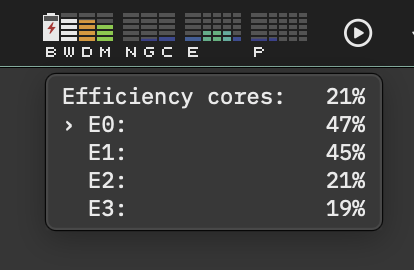
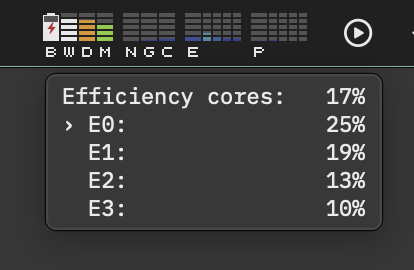
Read each core's line of the efficiency and performance cores' hover labels over the same second as their title, and retake their README pictures

diff --git a/cpuTopBarsTests/SystemInfoTests.swift b/cpuTopBarsTests/SystemInfoTests.swift
@@ -73,6 +73,47 @@ extension FreeTests {
       #expect(span >= 1.0)
     }
 
+    @Test func eachCpuOverTheSameWindow() {
+      // SystemInfoCpuBusyEach gives what SystemInfoCpuBusy gives, over the same window, and each logical CPU's busy
+      // share in it, one per CPU host_processor_info counts (hw.ncpu), each 0..1 or -1, nothing written past them
+      SystemInfoCpuReset()
+      SystemInfoCpuTick()
+      let until = Date().addingTimeInterval(1.1)
+      var spin = 0.0
+      while Date() < until { spin += 1 }
+      SystemInfoCpuTick()
+      let cpus = ProcessInfo.processInfo.processorCount
+      var each = [Double](repeating: -2, count: cpus + 1)
+      var count: natural_t = 99
+      var span = 0.0, spanEach = 0.0
+      let busy = SystemInfoCpuBusy(&span, nil, nil)
+      let busyEach = SystemInfoCpuBusyEach(&spanEach, nil, nil, &each, natural_t(each.count), &count)
+      #expect(busyEach == busy && spanEach == span, "busy \(busy) after \(spin) loops")
+      #expect(Int(count) == cpus)
+      #expect(each.prefix(cpus).allSatisfy { ($0 >= 0 && $0 <= 1) || $0 == -1 }, "\(each)")
+      #expect(each[cpus] == -2)
+      // every CPU's counters advance about 100 ticks a second (SystemInfo.c, CpuEachTicks), so over 1.1 s each CPU has
+      // ticks and a share, and the overall share, all CPUs' ticks summed, is close to the mean of theirs (within 0.0020
+      // in 56 windows, measured on an M3): the E and P labels' titles over their lines
+      let read = each.prefix(cpus).filter { $0 >= 0 }
+      #expect(read.count == cpus, "\(each)")
+      let mean = read.reduce(0, +) / Double(max(read.count, 1))
+      #expect(abs(mean - busy) < 0.01, "mean \(mean), busy \(busy), each \(each)")
+      // too small a capacity, or no buffer, writes none and counts 0; the busy share is still given
+      var small = [Double](repeating: -2, count: max(cpus - 1, 1))
+      #expect(SystemInfoCpuBusyEach(nil, nil, nil, &small, natural_t(cpus - 1), &count) == busy)
+      #expect(count == 0)
+      #expect(small.allSatisfy { $0 == -2 })
+      count = 99
+      #expect(SystemInfoCpuBusyEach(nil, nil, nil, nil, 0, &count) == busy)
+      #expect(count == 0)
+      // after a reset, no reading and none written
+      SystemInfoCpuReset()
+      count = 99
+      #expect(SystemInfoCpuBusyEach(nil, nil, nil, &each, natural_t(each.count), &count) == -1)
+      #expect(count == 0)
+    }
+
     // the power source keys' literal values, from IOPSKeys.h
     private func powerSource(_ extra: [String: Any]) -> CFDictionary {
       var d: [String: Any] = ["Type": "InternalBattery", "Is Present": true, "Current Capacity": 87, "Max Capacity": 100]

diff --git a/cpuTopBars/AppDelegate.mm b/cpuTopBars/AppDelegate.mm
@@ -1983,6 +1983,7 @@ static NSTimeInterval lastReadings = 0.0;   // when overall CPU and memory were 
 static double readingsCpu = -1.0;           // overall CPU over the 1 s before it (after a reset, one tick), 0..1, -1 before the first
 static double readingsCpuEfficiency = -1.0; // the E-cores' and the P-cores' over the same window, read with it; -1: not read
 static double readingsCpuPerformance = -1.0;
+static std::vector<double> readingsCpuEach; // each logical CPU's over the same window, read with it, in CpuSampler's order (-1: no ticks); empty: not read
 static double readingsGpu = -1.0;           // the GPU's busy share, 0..1, read with them while the GPU's bar is shown; -1: not read
 static int readingsNeuralEngine = -1;       // the Neural Engine's power: 1 on, 0 off, -1 not read
 static double readingsNeuralEngineBusy = -1.0; // its share of time busy, 0..1, from IOReport, read with them; -1: not read
@@ -3295,7 +3296,7 @@ static NSString* CoreKindReadingValue(double busy, NSLocale* locale)
   return (busy < 0.0) ? @"—" : [[NSString alloc] initWithFormat:@"%ld%%" locale:locale, lround(busy * 100.0)];
 }
 
-// the core graph's label at the graph's latest tick, as its bars show it, laid out as Wi-Fi's: a section per kind of
+// the core graph's label from loads, each logical CPU's (0..1; below 0, not read: "—"), laid out as Wi-Fi's: a section per kind of
 // core, E first, each its title, "Efficiency cores:" or "Performance cores:", at the left edge, then a line per CPU of
 // that kind, by logical id, named by its kind and its number within the kind, with its load, "  E0:   18%"; a blank line
 // before each section after the first, which SetTipText draws as a menu-style line; when the kinds were not read, one
@@ -3359,23 +3360,33 @@ static NSString* CoresTipText(const std::vector<double>& loads, const char* kind
     {
       bool marked = (hovered >= 0) && (perBar > 0) && ((NSInteger)(cpus[k] / perBar) == hovered);
       NSString* name = [NSString stringWithFormat:@"%@%c%lu:", marked ? @"› " : @"  ", letters[section], (unsigned long)k];
-      NSString* load = [[NSString alloc] initWithFormat:@"%ld%%" locale:locale, lround(100.0 * loads[cpus[k]])];
+      NSString* load = (loads[cpus[k]] < 0.0) ? @"—" : [[NSString alloc] initWithFormat:@"%ld%%" locale:locale, lround(100.0 * loads[cpus[k]])];
       [lines addObject:[[name stringByPaddingToLength:width withString:@" " startingAtIndex:0] stringByAppendingString:load]];
     }
   }
   return [lines componentsJoinedByString:@"\n"];
 }
 
-// the core graph's label at its latest tick, the bar under the pointer marked (CoresTipText); index BAR_TIP_CORES_E or
-// BAR_TIP_CORES_P: that kind's section alone, its title line with that kind's reading (CoreKindReadingValue)
+// the core graph's label, the bar under the pointer marked (CoresTipText): BAR_TIP_CORES at the graph's latest tick, as
+// its bars show it; BAR_TIP_CORES_E or BAR_TIP_CORES_P that kind's section alone, its title line with that kind's
+// reading (CoreKindReadingValue) and each CPU over the same window, read with it (readingsCpuEach), so that the title
+// is close to the mean of its lines (equal to it where every CPU counts as many ticks), where at the latest tick a
+// title of 7% stood over four 0%; while those are not read, the latest tick
 - (NSString*)coresTipText:(NSInteger)index
 {
+  char only = (index == BAR_TIP_CORES_E) ? 'E' : ((index == BAR_TIP_CORES_P) ? 'P' : 0);
+  bool windowed = (only != 0) && (cpu_info.countLogical > 0) && (readingsCpuEach.size() == cpu_info.countLogical);
+  static bool windowLogged = false;
+  if ((only != 0) && !windowed && !windowLogged)
+  {
+    windowLogged = true;
+    NSLog(@"the %c-cores' label shows the latest tick: each CPU's share over the readings' window is not read (%lu of %u)", only, (unsigned long)readingsCpuEach.size(), cpu_info.countLogical);
+  }
   std::vector<double> loads;
   for (natural_t i=0; i<cpu_info.countLogical; i++)
   {
-    loads.push_back(fmin(fmax(cpu_info.now[i].load, 0.0), 1.0));
+    loads.push_back(windowed ? fmin(readingsCpuEach[i], 1.0) : fmin(fmax(cpu_info.now[i].load, 0.0), 1.0));
   }
-  char only = (index == BAR_TIP_CORES_E) ? 'E' : ((index == BAR_TIP_CORES_P) ? 'P' : 0);
   NSString* titleValue = nil;
   if (only != 0)
   {
@@ -4166,12 +4177,16 @@ static void WifiRead(SystemInfoWifi* wifi, bool full)
   {
     double efficiency = -1.0;
     double performance = -1.0;
-    double cpu = SystemInfoCpuBusy(NULL, &efficiency, &performance);
+    std::vector<double> each(cpu_info.countLogical);
+    natural_t eachCount = 0;
+    double cpu = SystemInfoCpuBusyEach(NULL, &efficiency, &performance, each.data(), (natural_t)each.size(), &eachCount);
     if (cpu >= 0.0)
     {
       readingsCpu = cpu;
       readingsCpuEfficiency = efficiency;
       readingsCpuPerformance = performance;
+      each.resize(eachCount);
+      readingsCpuEach = each;
       static bool kindsLogged = false;
       if ((cpuKinds != NULL) && ((efficiency < 0.0) || (performance < 0.0)) && !kindsLogged)
       {

diff --git a/cpuTopBars/SystemInfo.c b/cpuTopBars/SystemInfo.c
@@ -56,12 +56,15 @@ static mach_port_t HostPort(void)
 
 #define CPU_RING_SIZE   (64)    // 6.3 s at the fastest refresh (0.1 s), enough for a 1 s window at every setting
 #define CPU_WINDOW      (1.0)   // s
+#define CPU_EACH_MAX    (64)    // logical CPUs whose own ticks a sample keeps; a Mac with more keeps none (eachCount 0)
 
 struct CpuSample
 {
   uint32_t ticks[CPU_STATE_MAX];        // the host's
   uint32_t cpuTicks[CPU_STATE_MAX];     // every CPU's, summed
   uint32_t kindTicks[2][CPU_STATE_MAX]; // [0] the E-cores', [1] the P-cores', each summed over its CPUs
+  uint32_t eachTicks[CPU_EACH_MAX][CPU_STATE_MAX]; // each CPU's own, in host_processor_info's order
+  natural_t eachCount;          // CPUs in eachTicks; 0: none kept
   bool     perCpu;              // cpuTicks were read
   bool     kinds;               // kindTicks were read
   double   time;                // s, CLOCK_MONOTONIC_RAW
@@ -95,11 +98,13 @@ void SystemInfoCpuSetKinds(natural_t count, const char* kinds)
 // summed over its CPUs, into its kindTicks (kinds: false also when there are no kinds or the CPUs' count is not the
 // kinds'). The sums wrap in 32 bits as the kernel's counters do, so a difference of two of them is still right across
 // a wrap. Each CPU's counters advance about 100 ticks a second, steadily, where the host's stall and catch up (over
-// three 1 s windows on an M3, 798-803 summed over its 8 CPUs against the host's 794, 1,121 and 655)
+// three 1 s windows on an M3, 798-803 summed over its 8 CPUs against the host's 794, 1,121 and 655). Each CPU's own
+// ticks too, into eachTicks, up to CPU_EACH_MAX CPUs (eachCount: 0 when they cannot be read or there are more)
 static void CpuEachTicks(CpuSample* sample)
 {
   sample->perCpu = false;
   sample->kinds = false;
+  sample->eachCount = 0;
   natural_t count = 0;
   processor_cpu_load_info_t load = NULL;
   mach_msg_type_number_t size = 0;
@@ -108,6 +113,7 @@ static void CpuEachTicks(CpuSample* sample)
     return;
   }
   bool kinds = (cpuKinds != NULL) && (count == cpuKindsCount);
+  bool each = (count <= CPU_EACH_MAX);
   memset(sample->cpuTicks, 0, sizeof(sample->cpuTicks));
   memset(sample->kindTicks, 0, sizeof(sample->kindTicks));
   for (natural_t c=0; c<count; c++)
@@ -117,8 +123,13 @@ static void CpuEachTicks(CpuSample* sample)
     {
       sample->cpuTicks[i] += load[c].cpu_ticks[i];
       sample->kindTicks[kind][i] += load[c].cpu_ticks[i];
+      if (each)
+      {
+        sample->eachTicks[c][i] = load[c].cpu_ticks[i];
+      }
     }
   }
+  sample->eachCount = each ? count : 0;
   sample->perCpu = true;
   sample->kinds = kinds;
   // size counts integers; vm_deallocate takes bytes
@@ -169,6 +180,15 @@ void SystemInfoCpuTick(void)
 
 double SystemInfoCpuBusy(double* span, double* efficiency, double* performance)
 {
+  return SystemInfoCpuBusyEach(span, efficiency, performance, NULL, 0, NULL);
+}
+
+double SystemInfoCpuBusyEach(double* span, double* efficiency, double* performance, double* each, natural_t capacity, natural_t* eachCount)
+{
+  if (eachCount != NULL)
+  {
+    *eachCount = 0;
+  }
   if (span != NULL)
   {
     *span = 0.0;
@@ -219,6 +239,15 @@ double SystemInfoCpuBusy(double* span, double* efficiency, double* performance)
       {
         *performance = CpuTicksBusy(now->kindTicks[1], then->kindTicks[1]);
       }
+    }
+    if ((each != NULL) && (eachCount != NULL) && (now->eachCount > 0) && (now->eachCount == then->eachCount) &&
+        (now->eachCount <= capacity))
+    {
+      for (natural_t c=0; c<now->eachCount; c++)
+      {
+        each[c] = CpuTicksBusy(now->eachTicks[c], then->eachTicks[c]);
+      }
+      *eachCount = now->eachCount;
     }
     return busy;
   }

diff --git a/cpuTopBars/SystemInfo.h b/cpuTopBars/SystemInfo.h
@@ -44,10 +44,17 @@ __BEGIN_DECLS
 // stores each kind's ticks, summed over its CPUs, and *efficiency and *performance, when not NULL, get each kind's busy
 // share over the same window, or -1 when it cannot be given (no kinds set, a sample without them, no CPU of that
 // kind, no ticks in it). SystemInfoCpuSetKinds copies the kinds; NULL forgets them.
+// Each CPU: every tick also stores each logical CPU's own ticks (up to 64 CPUs), and SystemInfoCpuBusyEach gives what
+// SystemInfoCpuBusy gives and, in the caller's each (capacity entries), each CPU's busy share over the same window, in
+// host_processor_info's order (CpuSampler's), -1 for a CPU with no ticks in it; *eachCount gets how many were written,
+// 0 when none could be (each or eachCount NULL, no reading, a sample without them, the count changed between the two,
+// or more CPUs than capacity).
 void SystemInfoCpuSetKinds(natural_t count, const char* kinds);
 void SystemInfoCpuReset(void);
 void SystemInfoCpuTick(void);
 double SystemInfoCpuBusy(double* span, double* efficiency, double* performance);
+double SystemInfoCpuBusyEach(double* span, double* efficiency, double* performance, double* each, natural_t capacity,
+                             natural_t* eachCount);
 
 // memory used as Activity Monitor counts it (app memory, wired and compressed) and the physical memory, in bytes
 bool SystemInfoMemory(uint64_t* used, uint64_t* total);
